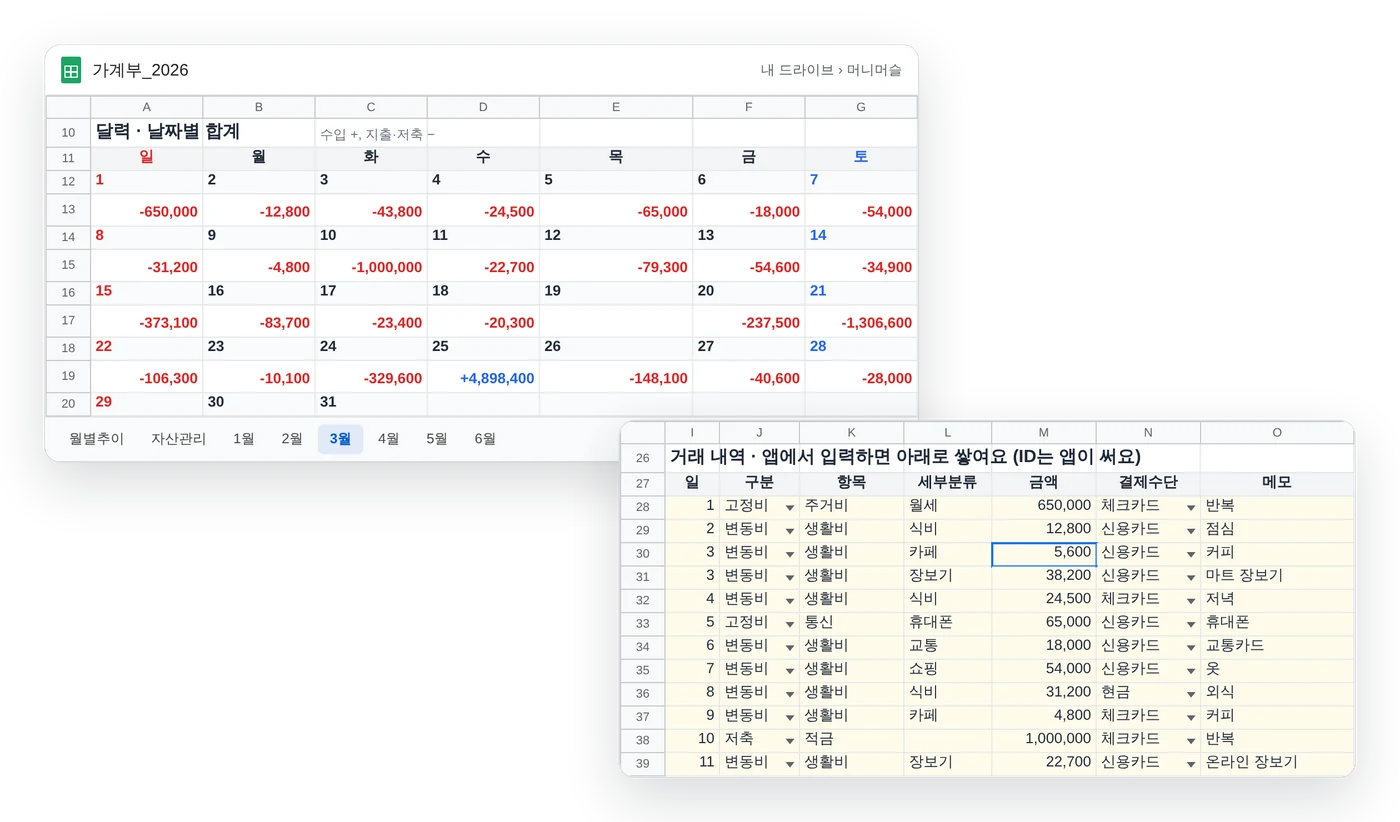
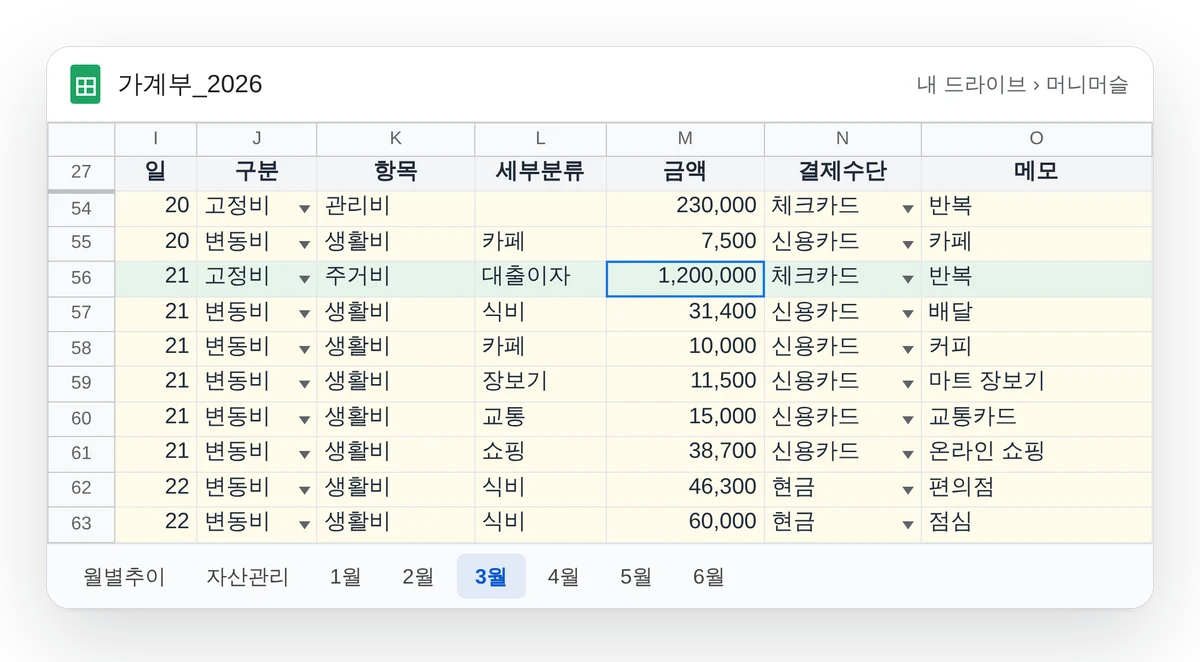
홈페이지: 구글 시트 이미지를 거래 내역 확대 화면으로 교체
Claude-Session: https://claude.ai/code/session_01UKRWKtccw6LvquKJpJWy82

diff --git a/server/home/index.html b/server/home/index.html
@@ -107,7 +107,7 @@ footer .fine{color:var(--faint);font-size:12.5px;margin-top:14px}
           <li>시트는 내 파일이라 앱을 지워도 기록이 남아요</li>
         </ul>
       </div>
-      <div class="sheetcard"><img src="/img/sheet.webp" alt="구글 시트의 3월 가계부: 날짜별 달력과 거래 내역" width="1400" height="822" loading="lazy"></div>
+      <div class="sheetcard"><img src="/img/sheet.webp" alt="구글 시트의 3월 가계부 거래 내역" width="1200" height="662" loading="lazy"></div>
     </div>
     <div class="row">
       <div class="txt">
